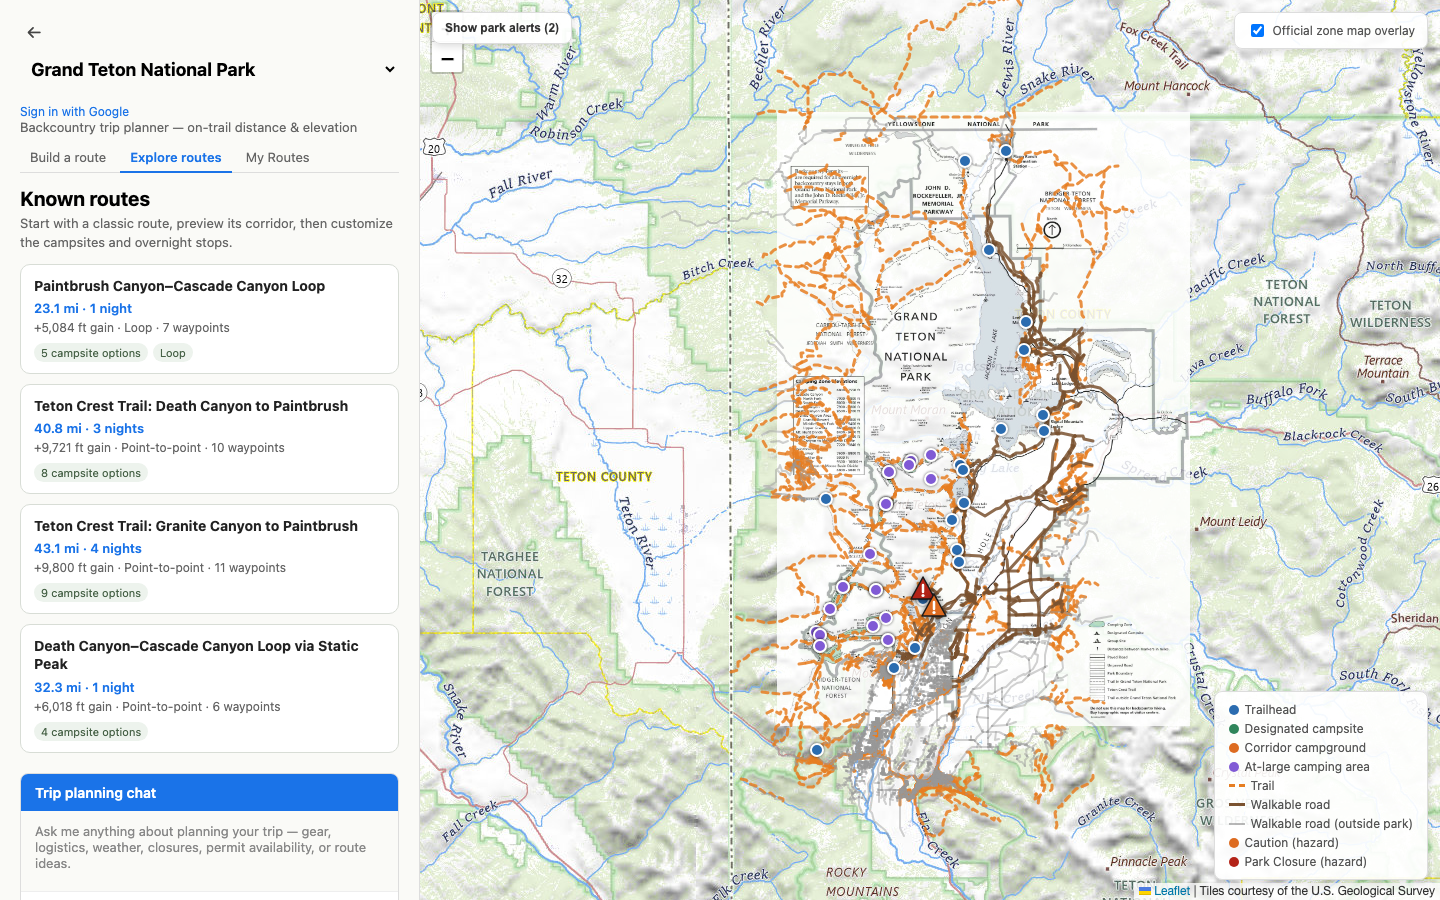
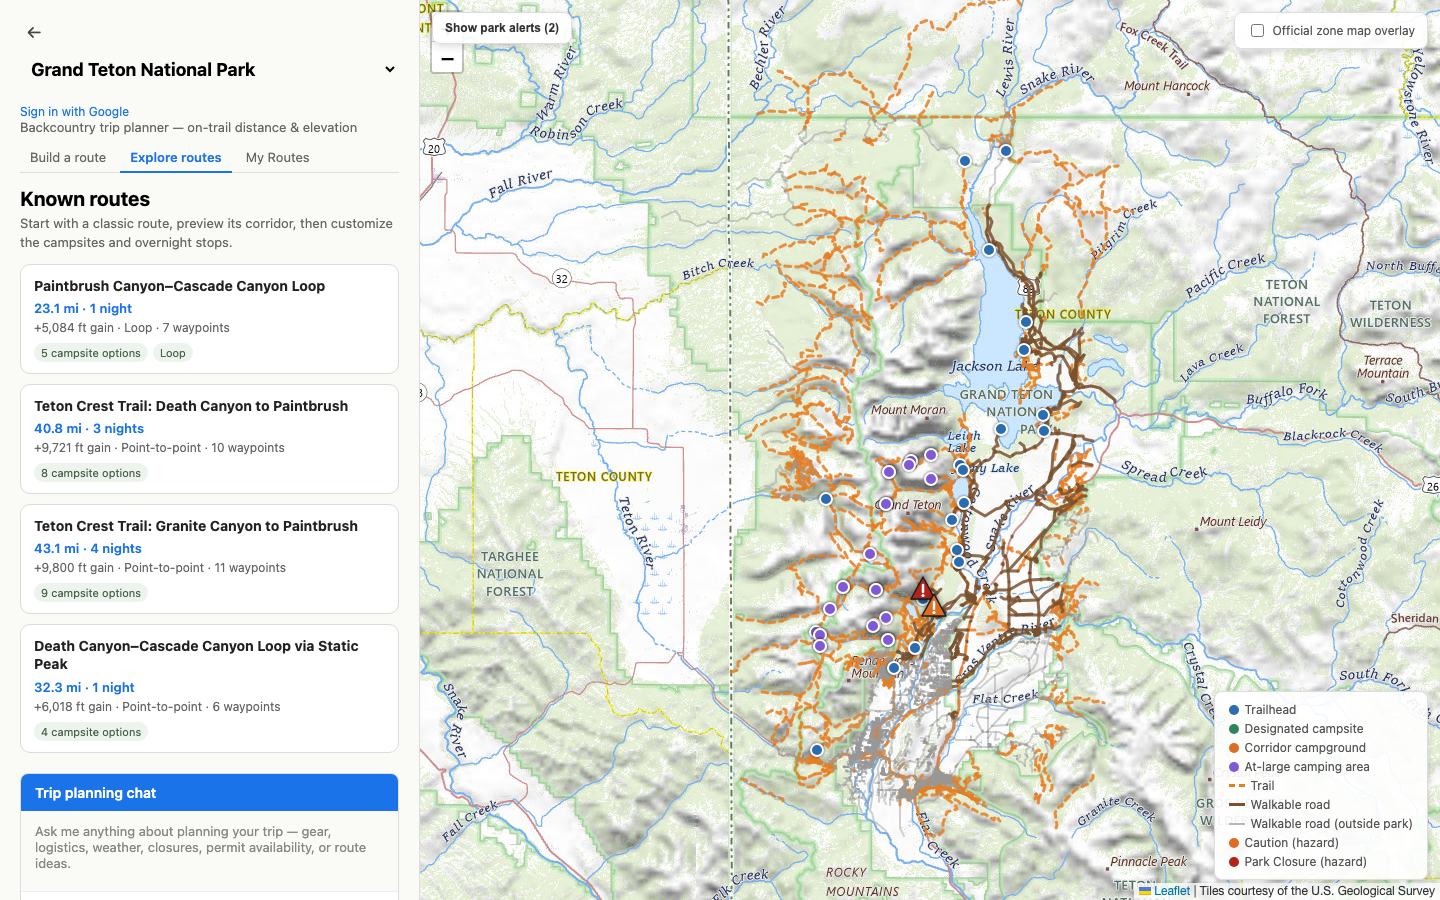
Retake screenshots without overlay, add Joshua Tree zone overlay section
Claude-Session: https://claude.ai/code/session_018yqybxGz6DbL5a1D4imQdg

Changed region(s): [[0.5312, 0.1244, 0.8438, 0.8089]]

diff --git a/README.md b/README.md
@@ -13,7 +13,7 @@ The app lives in [`backcountry_planner/`](backcountry_planner/).
 - **Saved routes.** Sign in with Google to save and revisit trips.
 - **Curated routes.** Browse known named routes and customize their campsites and stops.
 - **Live park alerts.** Official NPS closures and hazards shown as pins on the map (see [below](#live-park-alerts)).
-- **Zone maps.** Scanned park zone maps can be overlaid on the map.
+- **Zone maps.** Official scanned park zone maps can be overlaid on the map (see [below](#official-zone-map-overlay)).
 
 ## Screenshots
 
@@ -54,6 +54,28 @@ Alerts are optional. Without a key everything else in the app works normally.
 Optional: to pin non-road alerts on the map, also set `HF_TOKEN` (a Hugging Face access token). `HAZARD_LOCATOR_MODEL` picks the small model used for matching and has a default. Without `HF_TOKEN`, those alerts simply appear in the Park Alerts list.
 
 Alerts are informational only. Always confirm closures and permit rules with the managing agency before you go.
+
+## Official zone map overlay
+
+Some parks do not manage backcountry camping campsite by campsite. They divide the park into zones or areas, and your permit is for an area. The only official map of those areas is often a scanned PDF. For these parks, the planner can lay the park's own zone map directly over the live map, lined up to real coordinates, with a toggle to switch it on and off.
+
+**Joshua Tree** is a good example. With the overlay on, you can see the park's color-coded backcountry areas (Black Rock, Covington, Jumbo Flats, Pinto Mountains, Eagle Mountains, and more) sitting right on top of the trails, roads, and camping markers:
+
+![Joshua Tree with the official zone map overlay on](backcountry_planner/docs/screenshots/joshua-tree-overlay.png)
+
+The same park with the overlay off. The trails and markers are all there, but nothing tells you where one zone ends and the next begins:
+
+![Joshua Tree with the overlay off](backcountry_planner/docs/screenshots/joshua-tree-no-overlay.png)
+
+**Why it helps when planning**
+
+- **See where you are allowed to be.** Zone boundaries are what your permit and the park's rules are written against. Seeing them next to your route makes it obvious which area each stretch falls in.
+- **Plan across zones.** If a route crosses from one area into another, you can see it before you book, instead of finding out from a paper map at the trailhead.
+- **Pick better stops in at-large areas.** Where there are no numbered campsites, the overlay shows which area a candidate camping spot belongs to.
+- **Combine official and routable.** The scanned map is the authoritative picture but cannot give you mileage. The planner can, so you get the park's own map and on-trail distance and elevation in one view.
+- **Switch it off when it is in the way.** The overlay is a toggle in the top right of the map, so the plain topo view is one click away.
+
+Overlays are available for parks where the managing agency publishes a zone map. Check the park's current rules for what each zone allows.
 
 ## Parks covered
 
